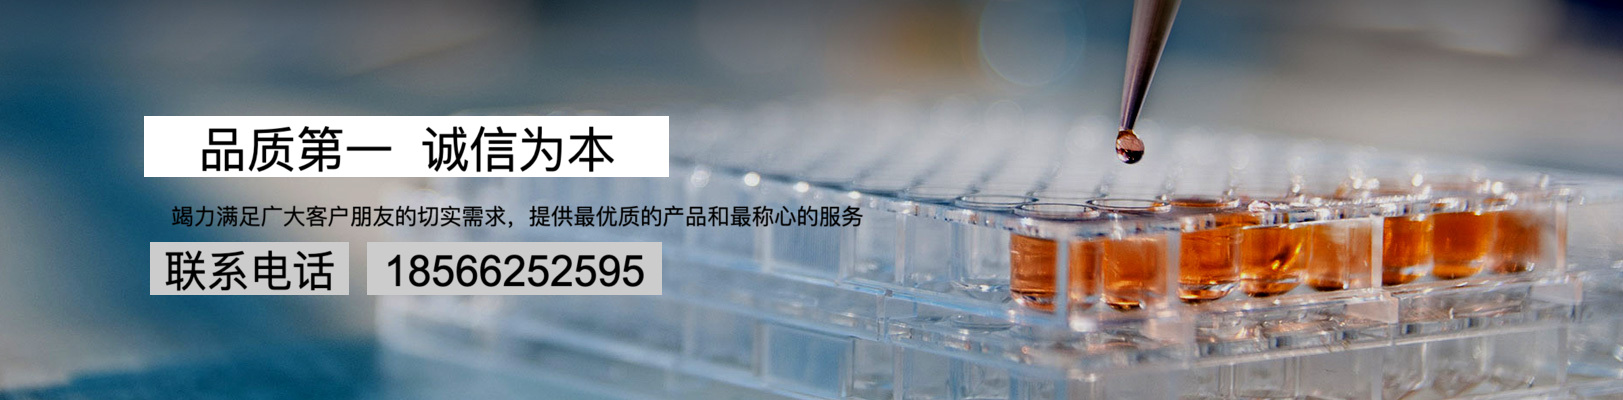
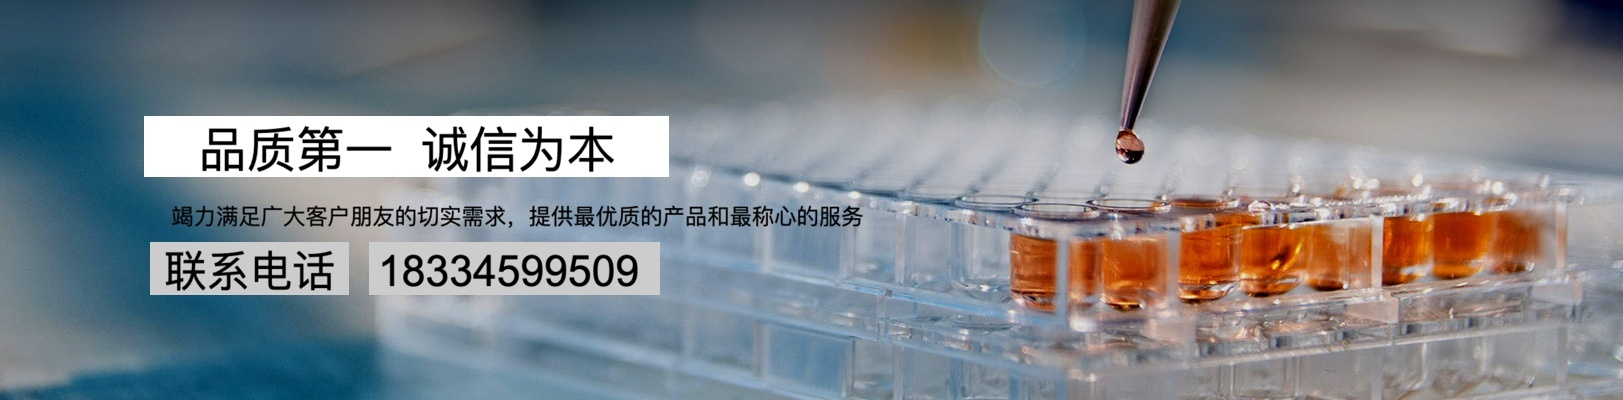
更新代码

Changed region(s): [[0.2157, 0.63, 0.4005, 0.72]]

diff --git a/profuile.html b/profuile.html
@@ -73,7 +73,7 @@
                 </p>
             </div>
             <a href="" class="col-md-6">
-                <img class="img1" src="http://0.rc.xiniu.com/g2/M00/08/FE/CgAGe1mdLo2AYNMzAAFdPNqcJmU101.jpg" alt="">
+                <img class="img1" src="images/home/home.jpeg" alt="">
             </a>
 
         </div>
@@ -81,35 +81,29 @@
             <div class="col-md-6">
                 <h2>企业文化</h2>
                 <p>
-                    <b>企业使命:</b>为消费者提供高品质家居生活整体决方案
+                    <b>企业使命:</b>通过创新和卓越运营，满足客户不断变化的需求
                     <br>
-                    <b>企业原景:</b>致力于成为柔性定制家居领域领导品牌
-                    <br>
-                    <b>公司价值观</b>:勇于承担责任,以敬畏之心服务户,以无畏之心超越自我,感恩奉献,正直守信
+                    <b>公司价值观</b>:品质第一，诚信为本
                     <br>
                     <b>企业理念:</b>以用户需求为导向,坚持品质卓越,服务创新,实现企业持续发展
                     <br>
                     <b>企业精神:</b>传承匠心精神,勤谨敬业,追求品质卓越,精益求精晟星云行为准则
                     <br>
-                    第一条顾客利益至高无上
+                    第一条:客户利益至高无上
                     <br>
-                    第二条:服务为本,一切以顾需求为中心
+                    第二条:服务为本,一切以客户需求为中心
                     <br>
-                    第三条:细节为王!追求产品极致的决心不可动摇
+                    第三条:品质为王,追求产品高品质的决心不可动摇
                     <br>
                     第四条:创新为赢,永远站在行业的最前沿
                     <br>
-                    第五条:合作共生,所有合作伙件的利益就是我们的益
+                    第五条:合作共生,所有合作伙件的利益就是我们的利益
                     <br>
-                    第六条:协同创适,群体的价值比个体价值的忘和还要高
-                    <br>
-                    企业责任:创造和谐人居环填,而社服务大众
-                    <br>
-                    <b>企业责任:创造和谐人居环境,贡献社会,服务大众</b>
+                    在我们的企业文化指引下，我们坚信，化工先锋，创新引领，我们将不断超越自我，迎接挑战，为客户提供满意的产品。
                     <br>
                 </p>
             </div>
-            <a href="" class="col-md-6"><img src="img/wenhua.jpg" alt=""></a>
+            <a href="" class="col-md-6"><img src="images/home/cooperate.jpeg" alt=""></a>
 
         </div>
     </div>
@@ -119,7 +113,7 @@
     <!--备案号-->
     <div class="footer-button">
         <div class="container">
-          <p> 晟星云科技有限公司 | 粤ICP备100000092号 | 联系电话: 18566252595 | 邮箱: yangxiaochuan1982@aliyun.com</p>
+          <p> 晟星云科技有限公司 | 粤ICP备100000092号 | 联系电话: 18334599509 | 邮箱: 1628842766@qq.com</p>
         </div>
     </div>
 </footer>

diff --git a/index.html b/index.html
@@ -176,7 +176,7 @@
             <div class="col-md-6">
                 <h3><a href="about.html">晟星云文化</a></h3>
                 <ul>
-                    <li class="text-left">晟星云的宗旨是建立长期的合作关系，以客户的需求为核心，为他们提供最佳的解决方案。公司将秉承诚信、创新和卓越的价值观，持续改进产品和服务质量，以满足市场的需求，并积极参与社会责任活动。</li>
+                    <li class="text-left">晟星云的宗旨是建立长期的合作关系，以客户的需求为核心，为他们提供最佳的解决方案。公司将秉承诚信、创新和卓越的价值观，我们积极支持研发和投资，以不断提高我们的产品质量和工艺效率，满足客户不断变化的需求。我们坚持诚信经营，遵守合法合规的商业道德标准。我们对我们的客户、员工和合作伙伴负责，始终以诚信对待每一位利益相关者。我们尊重知识产权，保护商业机密，坚守承诺，不断提高我们的企业声誉。我们积极履行社会责任，关注社会发展和公益事业。我们努力降低对环境的影响，支持本地社区和慈善活动。我们致力于与社会各界建立合作伙伴关系，共同推动可持续发展。</li>
                     
                 </ul>
             </div>
@@ -191,7 +191,7 @@
     <!--备案号-->
     <div class="footer-button">
         <div class="container">
-          <p> 晟星云科技有限公司 | 粤ICP备100000092号 | 联系电话: 18566252595 | 邮箱: yangxiaochuan1982@aliyun.com</p>
+          <p> 晟星云科技有限公司 | 粤ICP备100000092号 | 联系电话: 18334599509 | 邮箱: 1628842766@qq.com</p>
             
         </div>
     </div>

diff --git a/about.html b/about.html
@@ -95,17 +95,17 @@
                     <h4 style="text-align: left">深圳市晟星云科技有限公司</h4>
                 </li>
                 <li class="about_p" style="margin-top: 10px;">
-                  <p>联系人：杨小川</p>
+                  <p>联系人：郭薇薇</p>
                 </li>
                 <li class="about_p">
-                    <p>联系电话：18566252595</p>
+                    <p>联系电话：18334599509</p>
                 </li>
                 <li>
                     <p>中国 · 深圳</p>
                     <p>深圳龙岗区龙城街道乐年广场13A栋1312房</p>
                 </li>
                 <li class="about_p">
-                    <p>电子邮箱：yangxiaochuan1982@aliyun.com</p>
+                    <p>电子邮箱：1628842766@qq.com</p>
                 </li>
             </ul>
         </div>
@@ -123,7 +123,7 @@
     <!--备案号-->
     <div class="footer-button">
         <div class="container">
-          <p> 晟星云科技有限公司 | 粤ICP备100000092号 | 联系电话: 18566252595 | 邮箱: yangxiaochuan1982@aliyun.com</p>
+          <p> 晟星云科技有限公司 | 粤ICP备100000092号 | 联系电话: 18334599509 | 邮箱: 1628842766@qq.com</p>
             
         </div>
     </div>

diff --git a/products.html b/products.html
@@ -125,7 +125,7 @@
     <!--备案号-->
     <div class="footer-button">
         <div class="container">
-            <p> 晟星云科技有限公司 | 粤ICP备100000092号 | 联系电话: 18566252595 | 邮箱: yangxiaochuan1982@aliyun.com</p>
+            <p> 晟星云科技有限公司 | 粤ICP备100000092号 | 联系电话: 18334599509 | 邮箱: 1628842766@qq.com</p>
             
         </div>
     </div>
